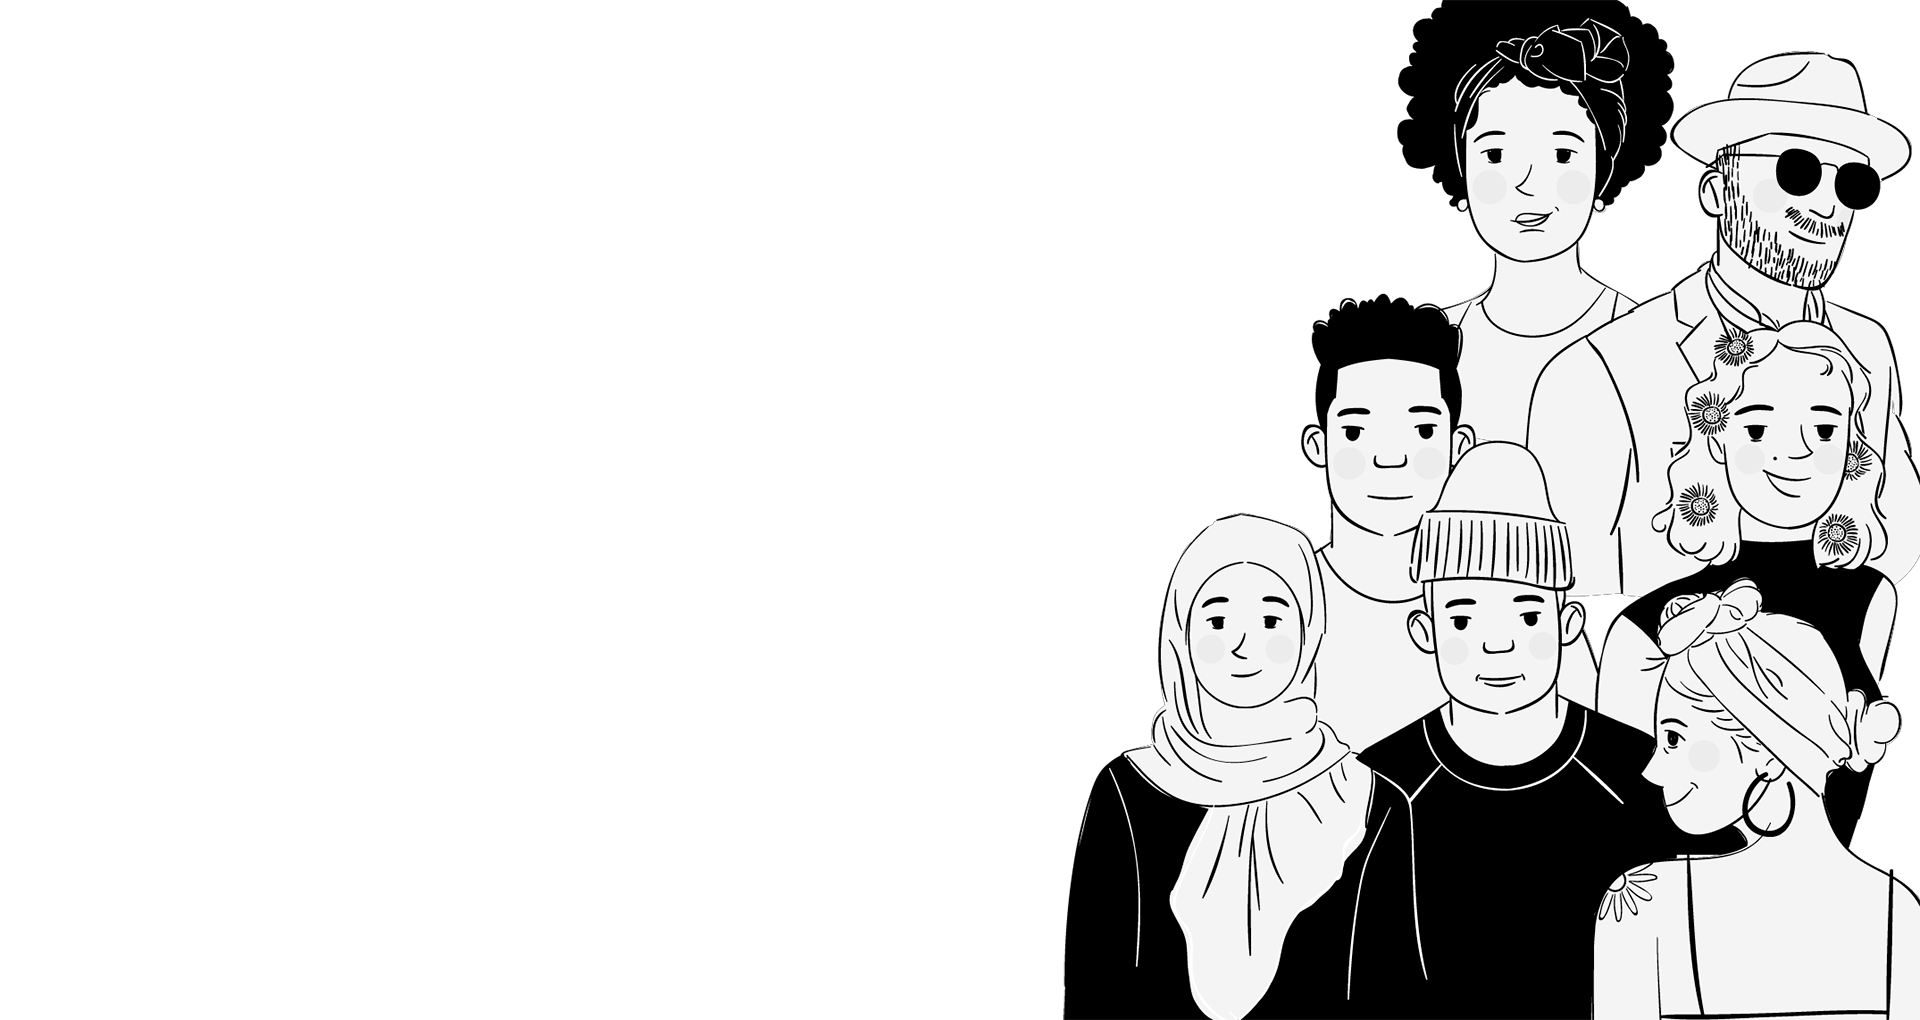
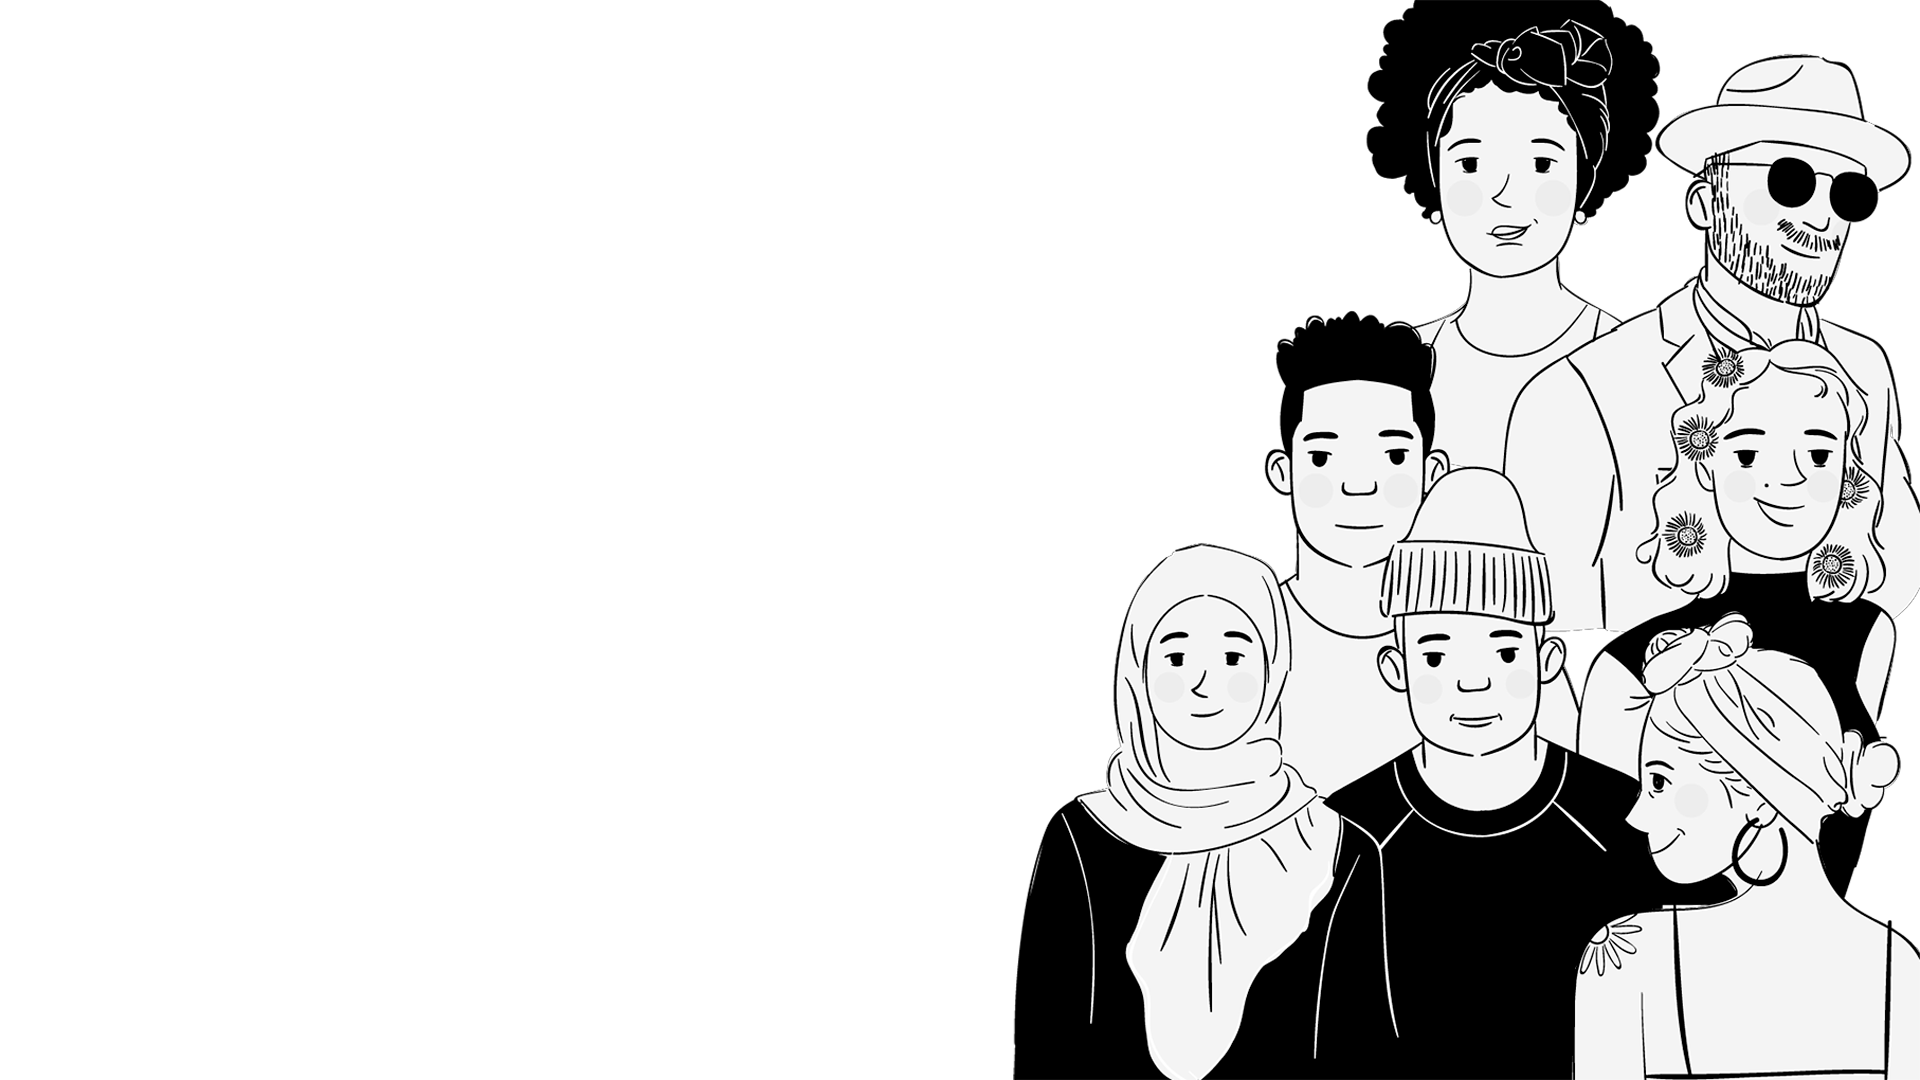
Change size bgHomePage

Changed region(s): [[0.5, 0.0, 1.0, 1.0], [0.9688, 0.851, 1.0, 0.9118], [0.9688, 0.9725, 1.0, 1.0]]

diff --git a/HomePage_styles.css b/HomePage_styles.css
@@ -16,8 +16,9 @@
 
 body {
     font-family: 'Kanit', sans-serif;
-    background-image: url('Images/Bg-HomePage.png');
+    /* background-image: url('Images/Bg-HomePage.png'); */
     overflow: hidden;
+    position: relative;
 }
 
 li,
@@ -33,6 +34,13 @@ header {
     align-items: center;
     padding: 5rem 10%;
     font-size: 16px;
+}
+
+.bgHome {
+    max-width: 100%;
+    height: auto;
+    position: absolute;
+    z-index: -1;
 }
 
 .logo {

diff --git a/HomaPage.html b/HomaPage.html
@@ -11,6 +11,8 @@
 
 <body>
 
+    <img class="bgHome" src="Images/Bg-HomePage.png" alt="BG">
+
     <header>
         <a class="logo" href="#">
             <img src="Images/Icons/logo-55.png" alt="logo">
